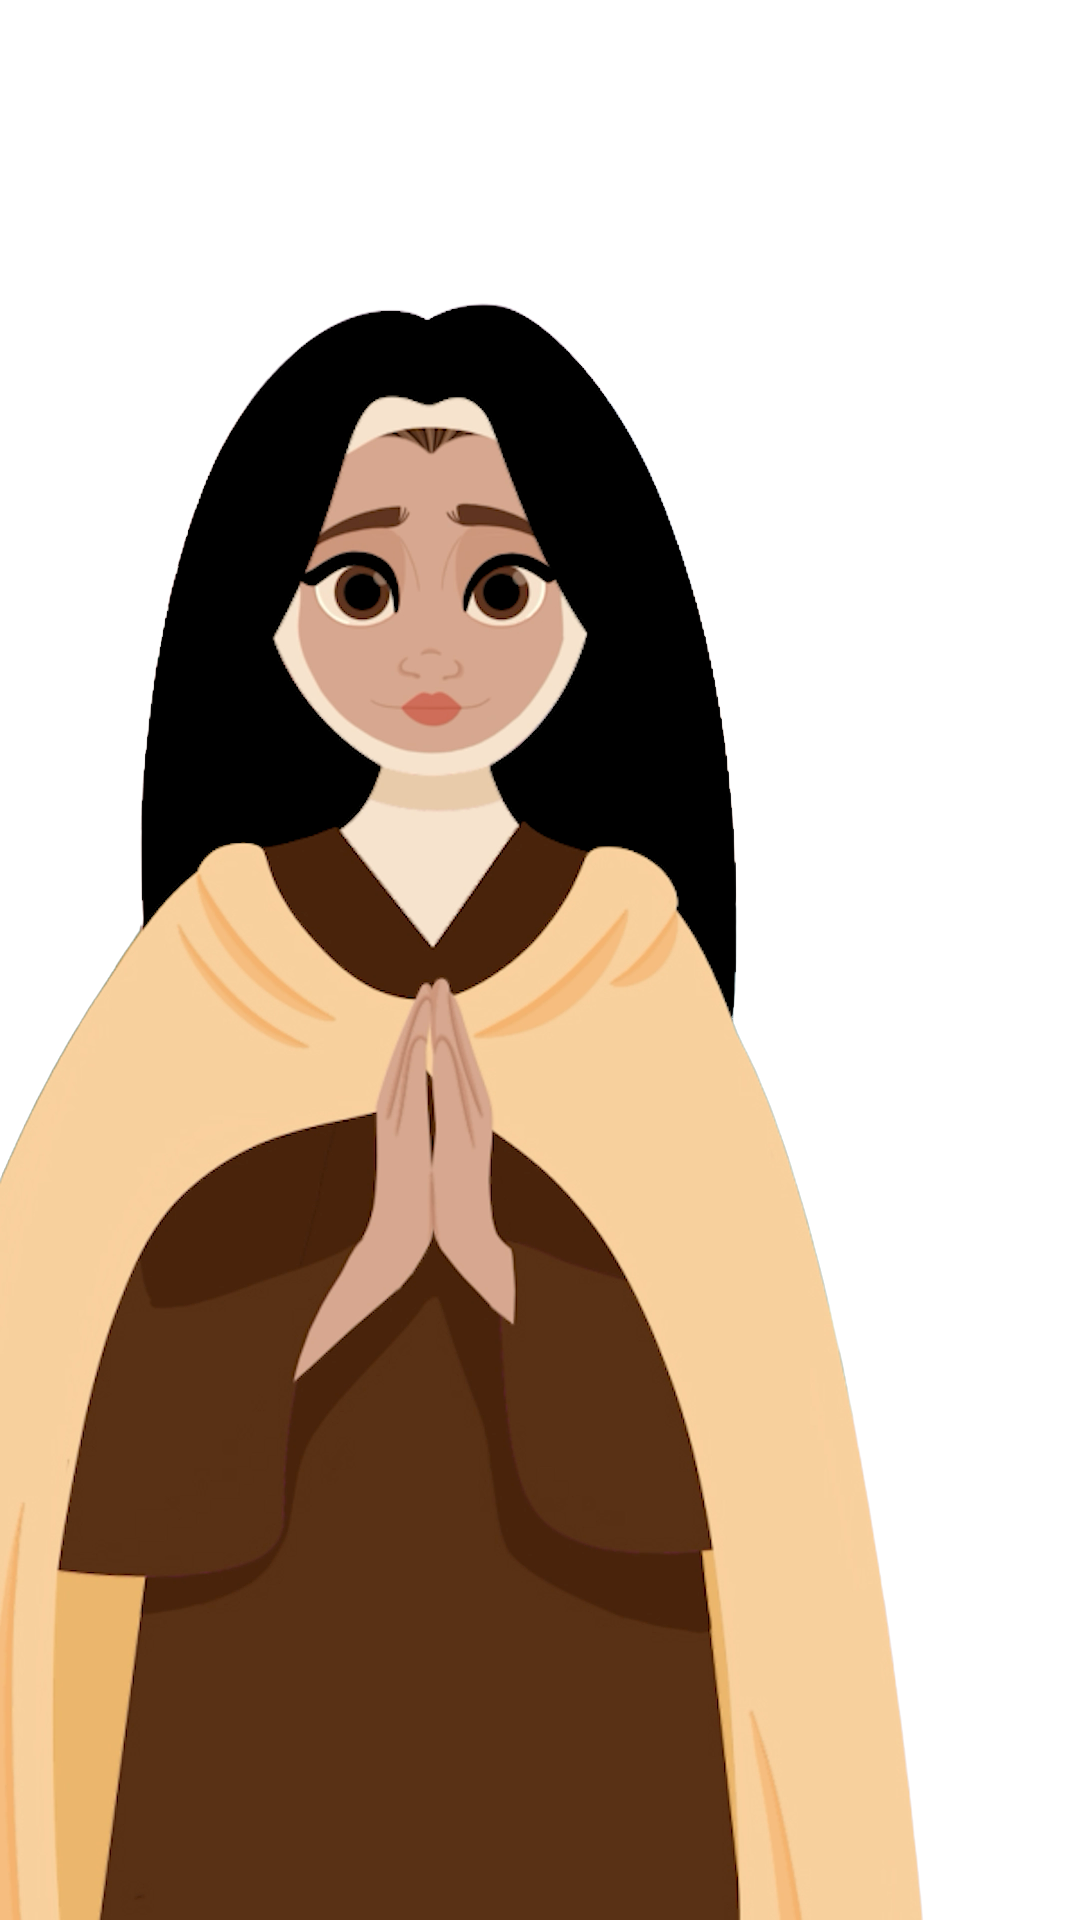
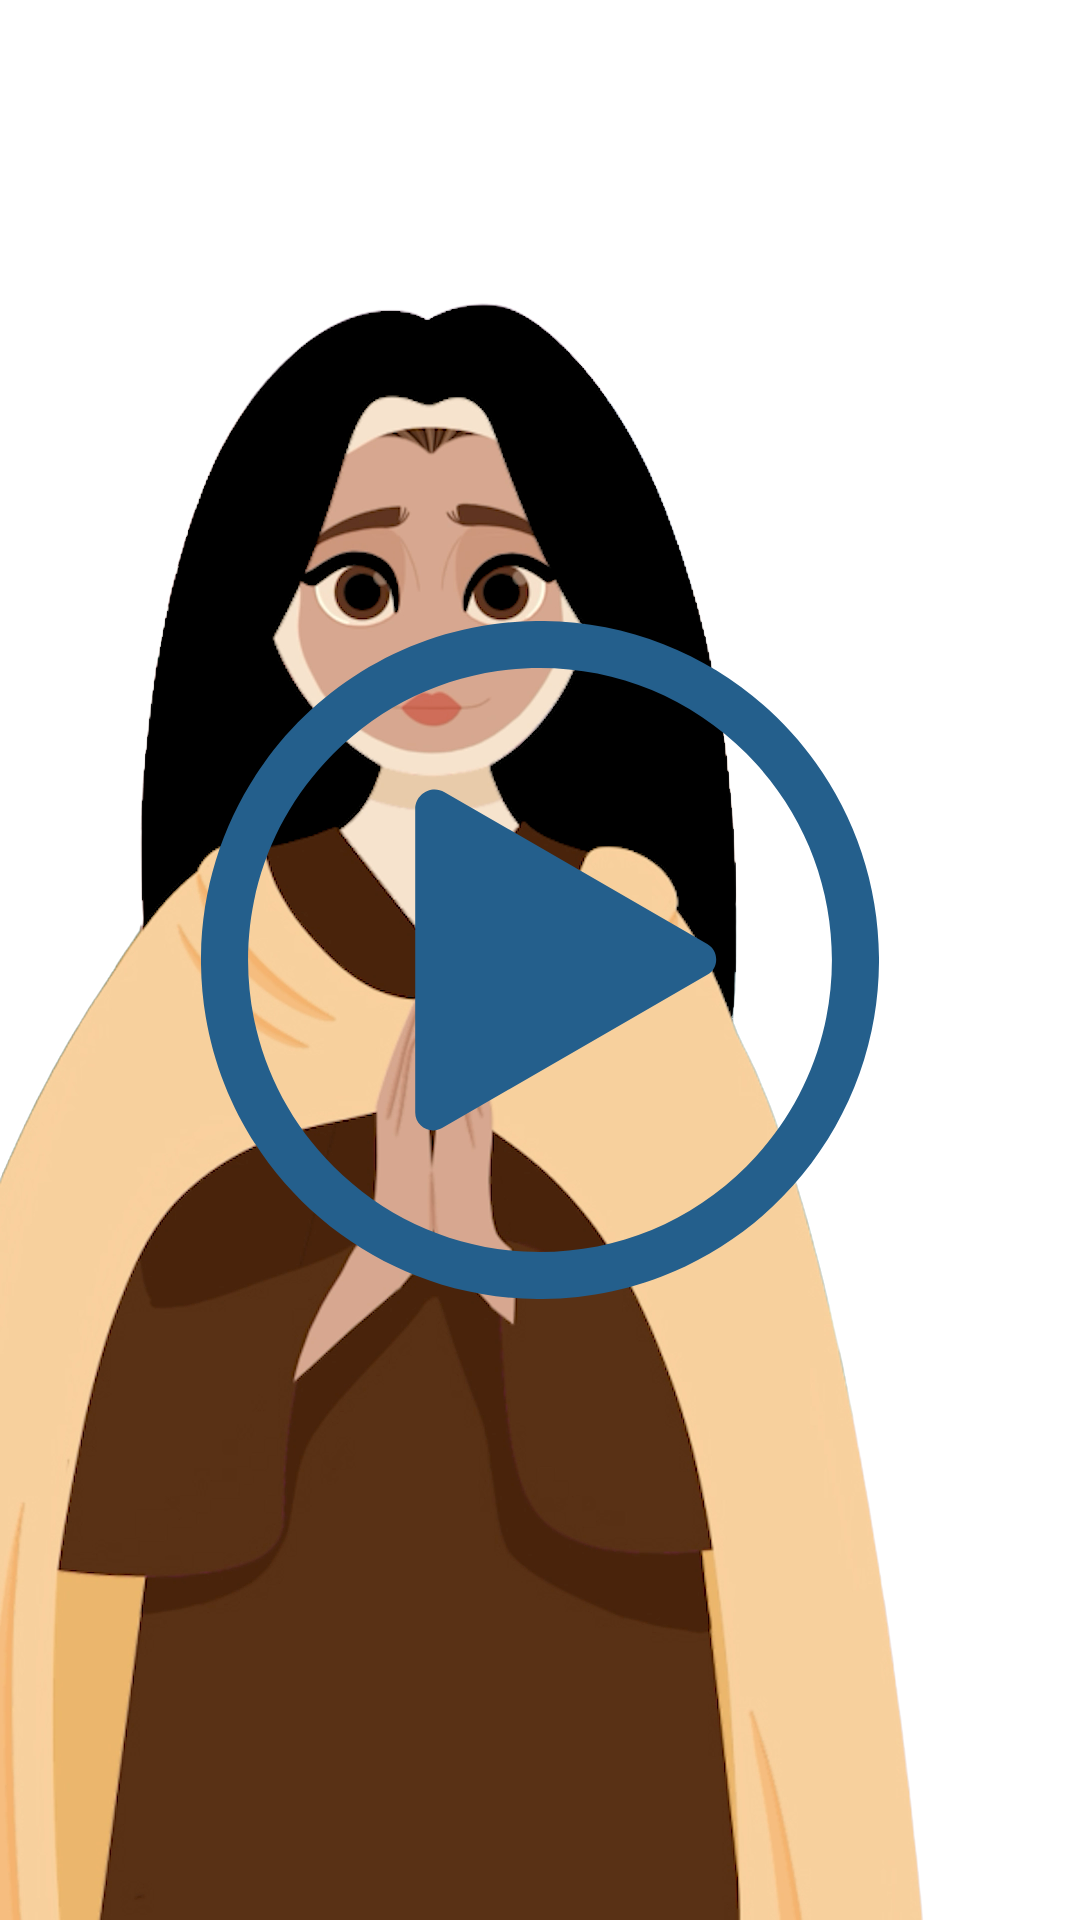
cleanup naming

Changed region(s): [[0.1833, 0.3125, 0.825, 0.6875], [0.3667, 0.4062, 0.6722, 0.5938]]

diff --git a/artherese.html b/artherese.html
@@ -1,6 +1,8 @@
 <html>
 
 <head>
+    <meta charset="utf-8">
+    <title>AR Saint Therese of Lisieux</title>
     <meta name="viewport" content="width=device-width, initial-scale=1">
     <meta name="apple-mobile-web-app-capable" content="yes">
     <meta aframe-injected="" name="mobile-web-app-capable" content="yes">
@@ -11,21 +13,21 @@
     <script>
         AFRAME.registerComponent('mytarget', {
             init: function () {
-                const video1 = document.querySelector("#paintandquest-video-mp4");
-                const video2 = document.querySelector("#paintandquest-video-webm");
+                const video1 = document.querySelector("#video-mp4");
+                const video2 = document.querySelector("#video-webm");
                 this.el.addEventListener('targetFound', event => {
                     console.log("target found");
 
-                    const paintandquestPreviewButton = document.querySelector("#paintandquest-preview-button");
-                    paintandquestPreviewButton.addEventListener('click', () => {
-                        paintandquestPreviewButton.setAttribute("visible", false);
+                    const previewButton = document.querySelector("#preview-button");
+                    previewButton.addEventListener('click', () => {
+                        previewButton.setAttribute("visible", false);
                         const testVideo = document.createElement("video");
                         const canplayWebm = testVideo.canPlayType('video/webm; codecs="vp8, vorbis"');
                         if (canplayWebm == "") {
-                            document.querySelector("#paintandquest-video-link").setAttribute("src", "#paintandquest-video-mp4");
+                            document.querySelector("#video-link").setAttribute("src", "#video-mp4");
                             video1.play();
                         } else {
-                            document.querySelector("#paintandquest-video-link").setAttribute("src", "#paintandquest-video-webm");
+                            document.querySelector("#video-link").setAttribute("src", "#video-webm");
                             video2.play();
                         }
                     });
@@ -50,11 +52,11 @@
             vr-mode-ui="enabled: false" device-orientation-permission-ui="enabled: false" inspector=""
             keyboard-shortcuts="" screenshot="">
             <a-assets>
-                <img id="paintandquest-preview" src="/assets/AR/Therese.png">
-                <video id="paintandquest-video-mp4" autoplay="false" loop="true" src="./paintandquest.mp4"
+                <img id="preview" src="/assets/AR/Therese.png">
+                <video id="video-mp4" autoplay="false" loop="true" src="/assets/AR/ThereseSingAlongIG_short.mp4"
                     playsinline="" webkit-playsinline=""></video>
-                <video id="paintandquest-video-webm" autoplay="false" loop="true"
-                    src="/assets/AR/ThereseSingAlong_short.webm" playsinline="" webkit-playsinline=""></video>
+                <video id="video-webm" autoplay="false" loop="true" src="/assets/AR/ThereseSingAlong_short.webm"
+                    playsinline="" webkit-playsinline=""></video>
             </a-assets>
 
             <a-camera position="0 0 0" look-controls="enabled: false" cursor="fuse: false; rayOrigin: mouse;"
@@ -62,10 +64,10 @@
             </a-camera>
 
             <a-entity id="mytarget" mytarget="" mindar-image-target="targetIndex: 0">
-                <a-video id="paintandquest-video-link" webkit-playsinline="" playsinline="" width="1" height="1.77"
-                    position="0 0 0" material="" geometry=""></a-video>
-                <a-image id="paintandquest-preview-button" class="clickable" src="#paintandquest-preview"
-                    alpha-test="0.5" position="0 0 0" height="1.77" width="1" material="" geometry="">
+                <a-video id="video-link" webkit-playsinline="" playsinline="" width="1" height="1.77" position="0 0 0"
+                    material="" geometry=""></a-video>
+                <a-image id="preview-button" class="clickable" src="#preview" alpha-test="0.5" position="0 0 0"
+                    height="1.77" width="1" material="" geometry="">
                 </a-image>
             </a-entity>
 
